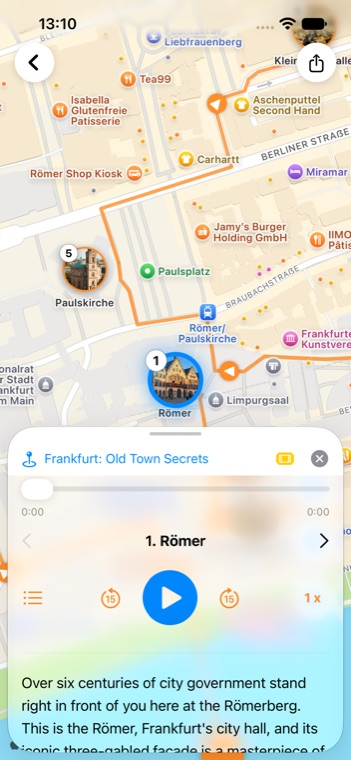
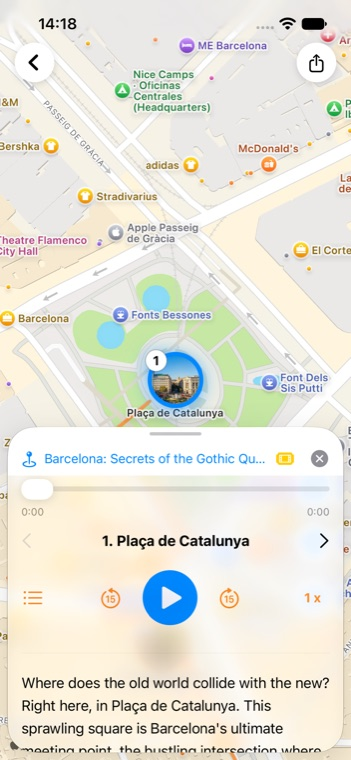
Make Barcelona the main example; hero phone cluster; 'In action' nav link

diff --git a/index.html b/index.html
@@ -33,7 +33,13 @@
   .badge{display:inline-flex;align-items:center;gap:8px;background:var(--ink);color:#fff;padding:12px 22px;border-radius:14px;font-weight:700}
   .badge small{display:block;font-size:11px;font-weight:600;opacity:.8;line-height:1}
   .note{color:var(--muted);font-size:13px;margin-top:12px}
-  .shot{display:block;width:72%;max-width:300px;margin:40px auto 0;border-radius:30px;border:1px solid #00000010;box-shadow:0 24px 60px #00000026}
+  .herophones{position:relative;width:300px;margin:52px auto 0}
+  .hp{border-radius:30px;border:1px solid #00000010;box-shadow:0 24px 60px #00000026;background:#fff}
+  .hp-c{position:relative;display:block;width:100%;z-index:3}
+  .hp-side{position:absolute;bottom:14px;width:76%;z-index:1}
+  .hp-l{left:-46%;transform:rotate(-8deg)}
+  .hp-r{right:-46%;transform:rotate(8deg)}
+  @media(max-width:720px){ .hp-side{display:none} .herophones{width:72%;max-width:300px} }
   section{padding:56px 0}
   h2{font-size:clamp(24px,3.5vw,34px);font-weight:800;text-align:center;margin-bottom:8px;letter-spacing:-.3px}
   .sub{text-align:center;color:var(--muted);max-width:46ch;margin:0 auto 36px}
@@ -80,6 +86,7 @@
   <nav>
     <span class="nav-links">
       <a href="#tours" data-i18n="nav_tours">Tours</a>
+      <a href="#screens" data-i18n="nav_screens">In action</a>
       <a href="#why" data-i18n="nav_why">Why</a>
       <a href="/privacy.html" data-i18n="nav_privacy">Privacy</a>
       <a href="mailto:support@addtomap.co" data-i18n="nav_support">Support</a>
@@ -97,7 +104,11 @@
   <p data-i18n="hero_p">Pick a city, follow the route on the map, and hear its stories as you walk — fully offline. Lots of tours are free; others from 0.99 €, no subscription.</p>
   <a class="badge" href="#tours"><span>🎧</span><span><small data-i18n="badge_small">Soon on the</small>App Store</span></a>
   <div class="note" data-i18n="note">iPhone · works offline · 6 languages</div>
-  <img class="shot" src="img/app-home.png" alt="AddToMap app screenshot" loading="lazy">
+  <div class="herophones">
+    <img class="hp hp-side hp-l" src="img/screen-tour.jpg" alt="AddToMap — Barcelona tour overview" loading="lazy">
+    <img class="hp hp-c" src="img/app-home.png" alt="AddToMap app — browse free walking tours" loading="lazy">
+    <img class="hp hp-side hp-r" src="img/screen-photo.jpg" alt="AddToMap — story and photo at every stop" loading="lazy">
+  </div>
 </div></div>
 
 <section id="tours"><div class="wrap">
@@ -125,7 +136,6 @@
   <figure><img src="img/screen-tour.jpg" alt="AddToMap — tour overview with route and stops" loading="lazy"><figcaption data-i18n="cap_tour">Preview & start</figcaption></figure>
   <figure><img src="img/screen-map.jpg" alt="AddToMap — follow the map and listen to each stop" loading="lazy"><figcaption data-i18n="cap_map">Follow the map</figcaption></figure>
   <figure><img src="img/screen-photo.jpg" alt="AddToMap — photo and story at every stop" loading="lazy"><figcaption data-i18n="cap_photo">Stories at every stop</figcaption></figure>
-  <figure><img src="img/screen-voice.jpg" alt="AddToMap — choose a male or female guide voice" loading="lazy"><figcaption data-i18n="cap_voice">Your choice of voice</figcaption></figure>
 </div>
 </section>
 
@@ -169,12 +179,12 @@
 
 <script>
 const I18N = {
-  en:{nav_tours:"Tours",nav_why:"Why",nav_privacy:"Privacy",nav_support:"Support",hero_h1:"Walk the city, hear its stories",hero_p:"Pick a city, follow the route on the map, and hear its stories as you walk — fully offline. Lots of tours are free; others from 0.99 €, no subscription.",badge_small:"Soon on the",note:"iPhone · works offline · 6 languages",free_title:"Lots of free tours to start",free_sub:"Full, self-guided city walks — free right now, with new ones added regularly. Tap a tour to hear a free preview.",stops:"stops",free_badge:"FREE",why_title:"Why AddToMap",f1_t:"Stories & secrets",f1_d:"Fascinating history and local secrets at every stop — curated, not generic.",f2_t:"Fully offline",f2_d:"Download once, walk anywhere — no roaming, no signal needed.",f3_t:"Price of a coffee",f3_d:"Tours from 0.99 €. No subscription, no account.",f4_t:"At your own pace",f4_d:"No tour group, no schedule. Start, pause and resume whenever.",how_title:"How it works",s1_t:"Pick a city",s1_d:"Browse tours and listen to a free preview.",s2_t:"Download it",s2_d:"The whole tour saves to your phone for offline use.",s3_t:"Walk & listen",s3_d:"Follow the map; stories play as you reach each stop.",cta_title:"Coming soon to the App Store",cta_sub:"Follow us for the launch and new cities.",preview_play:"Preview",preview_playing:"Playing…",voice_label:"Guide voice:",voice_male:"Male",voice_female:"Female",f5_t:"Your choice of voice",f5_d:"Prefer a male or female guide? Switch anytime — every tour is narrated in both voices.",screens_title:"See it in action",screens_sub:"A quick look inside the app — browse tours, follow the map, and listen as you walk.",cap_tour:"Preview & start",cap_map:"Follow the map",cap_photo:"Stories at every stop",cap_voice:"Your choice of voice"},
-  de:{nav_tours:"Touren",nav_why:"Warum",nav_privacy:"Datenschutz",nav_support:"Support",hero_h1:"Erkunde die Stadt, hör ihre Geschichten",hero_p:"Wähle eine Stadt, folge der Route auf der Karte und höre ihre Geschichten beim Gehen — komplett offline. Viele Touren sind gratis, weitere ab 0,99 €, kein Abo.",badge_small:"Bald im",note:"iPhone · offline · 6 Sprachen",free_title:"Viele kostenlose Touren zum Start",free_sub:"Komplette, selbstgeführte Stadtrundgänge — jetzt gratis, regelmäßig kommen neue dazu. Tippe auf eine Tour für eine kostenlose Vorschau.",stops:"Stopps",free_badge:"GRATIS",why_title:"Warum AddToMap",f1_t:"Geschichten & Geheimnisse",f1_d:"Spannende Geschichte und lokale Geheimnisse an jedem Stopp — kuratiert, nicht generisch.",f2_t:"Komplett offline",f2_d:"Einmal laden, überall gehen — kein Roaming, kein Signal nötig.",f3_t:"Preis eines Kaffees",f3_d:"Touren ab 0,99 €. Kein Abo, kein Konto.",f4_t:"In deinem Tempo",f4_d:"Keine Gruppe, kein Zeitplan. Starte, pausiere und mach weiter, wann du willst.",how_title:"So funktioniert's",s1_t:"Stadt wählen",s1_d:"Stöbere in Touren und hör dir eine kostenlose Vorschau an.",s2_t:"Herunterladen",s2_d:"Die ganze Tour wird für offline aufs Handy gespeichert.",s3_t:"Gehen & hören",s3_d:"Folge der Karte; Geschichten spielen an jedem Stopp.",cta_title:"Bald im App Store",cta_sub:"Folge uns für Launch und neue Städte.",preview_play:"Vorschau",preview_playing:"Läuft…",voice_label:"Guide-Stimme:",voice_male:"Männlich",voice_female:"Weiblich",f5_t:"Deine Wunschstimme",f5_d:"Männlicher oder weiblicher Guide? Jederzeit umschaltbar — jede Tour gibt es in beiden Stimmen.",screens_title:"So sieht's aus",screens_sub:"Ein kurzer Blick in die App — Touren entdecken, der Karte folgen und beim Gehen zuhören.",cap_tour:"Vorschau & Start",cap_map:"Der Karte folgen",cap_photo:"Geschichten an jedem Stopp",cap_voice:"Deine Wunschstimme"},
-  fr:{nav_tours:"Visites",nav_why:"Pourquoi",nav_privacy:"Confidentialité",nav_support:"Support",hero_h1:"Parcours la ville, écoute ses histoires",hero_p:"Choisis une ville, suis l'itinéraire sur la carte et écoute ses histoires en marchant — entièrement hors ligne. Beaucoup de visites sont gratuites, d'autres dès 0,99 €, sans abonnement.",badge_small:"Bientôt sur l'",note:"iPhone · hors ligne · 6 langues",free_title:"Plein de visites gratuites pour commencer",free_sub:"Des balades complètes en autonomie — gratuites dès maintenant, de nouvelles régulièrement. Touche une visite pour un aperçu gratuit.",stops:"arrêts",free_badge:"GRATUIT",why_title:"Pourquoi AddToMap",f1_t:"Histoires & secrets",f1_d:"Histoire fascinante et secrets locaux à chaque arrêt — sélectionnés, pas génériques.",f2_t:"100 % hors ligne",f2_d:"Télécharge une fois, marche partout — ni roaming ni réseau.",f3_t:"Prix d'un café",f3_d:"Visites dès 0,99 €. Sans abonnement, sans compte.",f4_t:"À ton rythme",f4_d:"Pas de groupe, pas d'horaire. Démarre, mets en pause, reprends quand tu veux.",how_title:"Comment ça marche",s1_t:"Choisis une ville",s1_d:"Parcours les visites et écoute un aperçu gratuit.",s2_t:"Télécharge-la",s2_d:"Toute la visite est enregistrée sur ton téléphone, hors ligne.",s3_t:"Marche & écoute",s3_d:"Suis la carte ; les récits se lancent à chaque arrêt.",cta_title:"Bientôt sur l'App Store",cta_sub:"Suis-nous pour le lancement et les nouvelles villes.",preview_play:"Aperçu",preview_playing:"Lecture…",voice_label:"Voix du guide :",voice_male:"Homme",voice_female:"Femme",f5_t:"La voix de ton choix",f5_d:"Guide masculin ou féminin ? Change quand tu veux — chaque visite existe dans les deux voix.",screens_title:"Un aperçu de l'app",screens_sub:"Un coup d'œil dans l'app — parcours les visites, suis la carte et écoute en marchant.",cap_tour:"Aperçu & départ",cap_map:"Suis la carte",cap_photo:"Des récits à chaque arrêt",cap_voice:"La voix de ton choix"},
-  es:{nav_tours:"Tours",nav_why:"Por qué",nav_privacy:"Privacidad",nav_support:"Soporte",hero_h1:"Recorre la ciudad, escucha sus historias",hero_p:"Elige una ciudad, sigue la ruta en el mapa y escucha sus historias mientras caminas — totalmente sin conexión. Muchos tours son gratis; otros desde 0,99 €, sin suscripción.",badge_small:"Pronto en la",note:"iPhone · sin conexión · 6 idiomas",free_title:"Muchos tours gratis para empezar",free_sub:"Recorridos completos autoguiados — gratis ahora mismo, con novedades periódicas. Toca un tour para oír una vista previa gratis.",stops:"paradas",free_badge:"GRATIS",why_title:"Por qué AddToMap",f1_t:"Historias y secretos",f1_d:"Historia fascinante y secretos locales en cada parada — seleccionados, no genéricos.",f2_t:"Totalmente sin conexión",f2_d:"Descarga una vez, camina donde sea — sin roaming ni señal.",f3_t:"El precio de un café",f3_d:"Tours desde 0,99 €. Sin suscripción, sin cuenta.",f4_t:"A tu ritmo",f4_d:"Sin grupo, sin horarios. Empieza, pausa y sigue cuando quieras.",how_title:"Cómo funciona",s1_t:"Elige una ciudad",s1_d:"Explora los tours y escucha una vista previa gratis.",s2_t:"Descárgalo",s2_d:"El tour completo se guarda en tu teléfono para usarlo sin conexión.",s3_t:"Camina y escucha",s3_d:"Sigue el mapa; las historias suenan al llegar a cada parada.",cta_title:"Pronto en la App Store",cta_sub:"Síguenos para el lanzamiento y nuevas ciudades.",preview_play:"Vista previa",preview_playing:"Reproduciendo…",voice_label:"Voz del guía:",voice_male:"Masculina",voice_female:"Femenina",f5_t:"La voz que prefieras",f5_d:"¿Guía masculino o femenino? Cámbialo cuando quieras: cada tour está narrado en ambas voces.",screens_title:"Míralo en acción",screens_sub:"Un vistazo a la app — explora tours, sigue el mapa y escucha mientras caminas.",cap_tour:"Vista previa e inicio",cap_map:"Sigue el mapa",cap_photo:"Historias en cada parada",cap_voice:"La voz que prefieras"},
-  it:{nav_tours:"Tour",nav_why:"Perché",nav_privacy:"Privacy",nav_support:"Supporto",hero_h1:"Esplora la città, ascolta le sue storie",hero_p:"Scegli una città, segui il percorso sulla mappa e ascolta le sue storie mentre cammini — completamente offline. Molti tour sono gratuiti, altri da 0,99 €, senza abbonamento.",badge_small:"Presto su",note:"iPhone · offline · 6 lingue",free_title:"Tanti tour gratuiti per iniziare",free_sub:"Percorsi cittadini completi e autoguidati — gratis ora, con novità regolari. Tocca un tour per ascoltare un'anteprima gratuita.",stops:"tappe",free_badge:"GRATIS",why_title:"Perché AddToMap",f1_t:"Storie e segreti",f1_d:"Storia affascinante e segreti locali a ogni tappa — selezionati, non generici.",f2_t:"Totalmente offline",f2_d:"Scarica una volta, cammina ovunque — niente roaming né segnale.",f3_t:"Il prezzo di un caffè",f3_d:"Tour da 0,99 €. Senza abbonamento, senza account.",f4_t:"Al tuo ritmo",f4_d:"Niente gruppo, niente orari. Avvia, metti in pausa e riprendi quando vuoi.",how_title:"Come funziona",s1_t:"Scegli una città",s1_d:"Sfoglia i tour e ascolta un'anteprima gratuita.",s2_t:"Scaricalo",s2_d:"L'intero tour si salva sul telefono per l'uso offline.",s3_t:"Cammina e ascolta",s3_d:"Segui la mappa; le storie partono a ogni tappa.",cta_title:"Presto sull'App Store",cta_sub:"Seguici per il lancio e le nuove città.",preview_play:"Anteprima",preview_playing:"In riproduzione…",voice_label:"Voce della guida:",voice_male:"Maschile",voice_female:"Femminile",f5_t:"La voce che preferisci",f5_d:"Guida maschile o femminile? Cambiala quando vuoi: ogni tour è narrato in entrambe le voci.",screens_title:"Guardala in azione",screens_sub:"Uno sguardo all'app — esplora i tour, segui la mappa e ascolta mentre cammini.",cap_tour:"Anteprima e avvio",cap_map:"Segui la mappa",cap_photo:"Storie a ogni tappa",cap_voice:"La voce che preferisci"},
-  ru:{nav_tours:"Туры",nav_why:"Почему",nav_privacy:"Приватность",nav_support:"Поддержка",hero_h1:"Гуляй по городу — слушай его истории",hero_p:"Выбери город, иди по маршруту на карте и слушай истории на ходу — полностью офлайн. Много туров бесплатно, остальные от 0,99 €, без подписки.",badge_small:"Скоро в",note:"iPhone · офлайн · 6 языков",free_title:"Много бесплатных туров для старта",free_sub:"Полные самостоятельные маршруты — бесплатно прямо сейчас, новые добавляются регулярно. Нажми на тур, чтобы послушать бесплатное превью.",stops:"точек",free_badge:"БЕСПЛАТНО",why_title:"Почему AddToMap",f1_t:"Истории и секреты",f1_d:"Увлекательная история и местные секреты на каждой точке — отобранные, не шаблонные.",f2_t:"Полностью офлайн",f2_d:"Скачай один раз — иди где угодно, без роуминга и сети.",f3_t:"Цена чашки кофе",f3_d:"Туры от 0,99 €. Без подписки и аккаунта.",f4_t:"В своём темпе",f4_d:"Без группы и расписания. Старт, пауза и продолжение — когда хочешь.",how_title:"Как это работает",s1_t:"Выбери город",s1_d:"Смотри туры и слушай бесплатное превью.",s2_t:"Скачай",s2_d:"Весь тур сохраняется на телефон для офлайна.",s3_t:"Иди и слушай",s3_d:"Следуй карте; истории включаются на каждой точке.",cta_title:"Скоро в App Store",cta_sub:"Подпишись — расскажем о запуске и новых городах.",preview_play:"Превью",preview_playing:"Играет…",voice_label:"Голос гида:",voice_male:"Мужской",voice_female:"Женский",f5_t:"Голос на выбор",f5_d:"Мужской или женский гид? Переключай в любой момент — каждый тур озвучен обоими голосами.",screens_title:"Как это выглядит",screens_sub:"Загляни внутрь приложения — выбирай туры, следуй карте и слушай на ходу.",cap_tour:"Превью и старт",cap_map:"Следуй карте",cap_photo:"Истории на каждой точке",cap_voice:"Голос на выбор"}
+  en:{nav_tours:"Tours",nav_screens:"In action",nav_why:"Why",nav_privacy:"Privacy",nav_support:"Support",hero_h1:"Walk the city, hear its stories",hero_p:"Pick a city, follow the route on the map, and hear its stories as you walk — fully offline. Lots of tours are free; others from 0.99 €, no subscription.",badge_small:"Soon on the",note:"iPhone · works offline · 6 languages",free_title:"Lots of free tours to start",free_sub:"Full, self-guided city walks — free right now, with new ones added regularly. Tap a tour to hear a free preview.",stops:"stops",free_badge:"FREE",why_title:"Why AddToMap",f1_t:"Stories & secrets",f1_d:"Fascinating history and local secrets at every stop — curated, not generic.",f2_t:"Fully offline",f2_d:"Download once, walk anywhere — no roaming, no signal needed.",f3_t:"Price of a coffee",f3_d:"Tours from 0.99 €. No subscription, no account.",f4_t:"At your own pace",f4_d:"No tour group, no schedule. Start, pause and resume whenever.",how_title:"How it works",s1_t:"Pick a city",s1_d:"Browse tours and listen to a free preview.",s2_t:"Download it",s2_d:"The whole tour saves to your phone for offline use.",s3_t:"Walk & listen",s3_d:"Follow the map; stories play as you reach each stop.",cta_title:"Coming soon to the App Store",cta_sub:"Follow us for the launch and new cities.",preview_play:"Preview",preview_playing:"Playing…",voice_label:"Guide voice:",voice_male:"Male",voice_female:"Female",f5_t:"Your choice of voice",f5_d:"Prefer a male or female guide? Switch anytime — every tour is narrated in both voices.",screens_title:"See it in action",screens_sub:"A quick look inside the app — browse tours, follow the map, and listen as you walk.",cap_tour:"Preview & start",cap_map:"Follow the map",cap_photo:"Stories at every stop",cap_voice:"Your choice of voice"},
+  de:{nav_tours:"Touren",nav_screens:"In Aktion",nav_why:"Warum",nav_privacy:"Datenschutz",nav_support:"Support",hero_h1:"Erkunde die Stadt, hör ihre Geschichten",hero_p:"Wähle eine Stadt, folge der Route auf der Karte und höre ihre Geschichten beim Gehen — komplett offline. Viele Touren sind gratis, weitere ab 0,99 €, kein Abo.",badge_small:"Bald im",note:"iPhone · offline · 6 Sprachen",free_title:"Viele kostenlose Touren zum Start",free_sub:"Komplette, selbstgeführte Stadtrundgänge — jetzt gratis, regelmäßig kommen neue dazu. Tippe auf eine Tour für eine kostenlose Vorschau.",stops:"Stopps",free_badge:"GRATIS",why_title:"Warum AddToMap",f1_t:"Geschichten & Geheimnisse",f1_d:"Spannende Geschichte und lokale Geheimnisse an jedem Stopp — kuratiert, nicht generisch.",f2_t:"Komplett offline",f2_d:"Einmal laden, überall gehen — kein Roaming, kein Signal nötig.",f3_t:"Preis eines Kaffees",f3_d:"Touren ab 0,99 €. Kein Abo, kein Konto.",f4_t:"In deinem Tempo",f4_d:"Keine Gruppe, kein Zeitplan. Starte, pausiere und mach weiter, wann du willst.",how_title:"So funktioniert's",s1_t:"Stadt wählen",s1_d:"Stöbere in Touren und hör dir eine kostenlose Vorschau an.",s2_t:"Herunterladen",s2_d:"Die ganze Tour wird für offline aufs Handy gespeichert.",s3_t:"Gehen & hören",s3_d:"Folge der Karte; Geschichten spielen an jedem Stopp.",cta_title:"Bald im App Store",cta_sub:"Folge uns für Launch und neue Städte.",preview_play:"Vorschau",preview_playing:"Läuft…",voice_label:"Guide-Stimme:",voice_male:"Männlich",voice_female:"Weiblich",f5_t:"Deine Wunschstimme",f5_d:"Männlicher oder weiblicher Guide? Jederzeit umschaltbar — jede Tour gibt es in beiden Stimmen.",screens_title:"So sieht's aus",screens_sub:"Ein kurzer Blick in die App — Touren entdecken, der Karte folgen und beim Gehen zuhören.",cap_tour:"Vorschau & Start",cap_map:"Der Karte folgen",cap_photo:"Geschichten an jedem Stopp",cap_voice:"Deine Wunschstimme"},
+  fr:{nav_tours:"Visites",nav_screens:"En action",nav_why:"Pourquoi",nav_privacy:"Confidentialité",nav_support:"Support",hero_h1:"Parcours la ville, écoute ses histoires",hero_p:"Choisis une ville, suis l'itinéraire sur la carte et écoute ses histoires en marchant — entièrement hors ligne. Beaucoup de visites sont gratuites, d'autres dès 0,99 €, sans abonnement.",badge_small:"Bientôt sur l'",note:"iPhone · hors ligne · 6 langues",free_title:"Plein de visites gratuites pour commencer",free_sub:"Des balades complètes en autonomie — gratuites dès maintenant, de nouvelles régulièrement. Touche une visite pour un aperçu gratuit.",stops:"arrêts",free_badge:"GRATUIT",why_title:"Pourquoi AddToMap",f1_t:"Histoires & secrets",f1_d:"Histoire fascinante et secrets locaux à chaque arrêt — sélectionnés, pas génériques.",f2_t:"100 % hors ligne",f2_d:"Télécharge une fois, marche partout — ni roaming ni réseau.",f3_t:"Prix d'un café",f3_d:"Visites dès 0,99 €. Sans abonnement, sans compte.",f4_t:"À ton rythme",f4_d:"Pas de groupe, pas d'horaire. Démarre, mets en pause, reprends quand tu veux.",how_title:"Comment ça marche",s1_t:"Choisis une ville",s1_d:"Parcours les visites et écoute un aperçu gratuit.",s2_t:"Télécharge-la",s2_d:"Toute la visite est enregistrée sur ton téléphone, hors ligne.",s3_t:"Marche & écoute",s3_d:"Suis la carte ; les récits se lancent à chaque arrêt.",cta_title:"Bientôt sur l'App Store",cta_sub:"Suis-nous pour le lancement et les nouvelles villes.",preview_play:"Aperçu",preview_playing:"Lecture…",voice_label:"Voix du guide :",voice_male:"Homme",voice_female:"Femme",f5_t:"La voix de ton choix",f5_d:"Guide masculin ou féminin ? Change quand tu veux — chaque visite existe dans les deux voix.",screens_title:"Un aperçu de l'app",screens_sub:"Un coup d'œil dans l'app — parcours les visites, suis la carte et écoute en marchant.",cap_tour:"Aperçu & départ",cap_map:"Suis la carte",cap_photo:"Des récits à chaque arrêt",cap_voice:"La voix de ton choix"},
+  es:{nav_tours:"Tours",nav_screens:"En acción",nav_why:"Por qué",nav_privacy:"Privacidad",nav_support:"Soporte",hero_h1:"Recorre la ciudad, escucha sus historias",hero_p:"Elige una ciudad, sigue la ruta en el mapa y escucha sus historias mientras caminas — totalmente sin conexión. Muchos tours son gratis; otros desde 0,99 €, sin suscripción.",badge_small:"Pronto en la",note:"iPhone · sin conexión · 6 idiomas",free_title:"Muchos tours gratis para empezar",free_sub:"Recorridos completos autoguiados — gratis ahora mismo, con novedades periódicas. Toca un tour para oír una vista previa gratis.",stops:"paradas",free_badge:"GRATIS",why_title:"Por qué AddToMap",f1_t:"Historias y secretos",f1_d:"Historia fascinante y secretos locales en cada parada — seleccionados, no genéricos.",f2_t:"Totalmente sin conexión",f2_d:"Descarga una vez, camina donde sea — sin roaming ni señal.",f3_t:"El precio de un café",f3_d:"Tours desde 0,99 €. Sin suscripción, sin cuenta.",f4_t:"A tu ritmo",f4_d:"Sin grupo, sin horarios. Empieza, pausa y sigue cuando quieras.",how_title:"Cómo funciona",s1_t:"Elige una ciudad",s1_d:"Explora los tours y escucha una vista previa gratis.",s2_t:"Descárgalo",s2_d:"El tour completo se guarda en tu teléfono para usarlo sin conexión.",s3_t:"Camina y escucha",s3_d:"Sigue el mapa; las historias suenan al llegar a cada parada.",cta_title:"Pronto en la App Store",cta_sub:"Síguenos para el lanzamiento y nuevas ciudades.",preview_play:"Vista previa",preview_playing:"Reproduciendo…",voice_label:"Voz del guía:",voice_male:"Masculina",voice_female:"Femenina",f5_t:"La voz que prefieras",f5_d:"¿Guía masculino o femenino? Cámbialo cuando quieras: cada tour está narrado en ambas voces.",screens_title:"Míralo en acción",screens_sub:"Un vistazo a la app — explora tours, sigue el mapa y escucha mientras caminas.",cap_tour:"Vista previa e inicio",cap_map:"Sigue el mapa",cap_photo:"Historias en cada parada",cap_voice:"La voz que prefieras"},
+  it:{nav_tours:"Tour",nav_screens:"In azione",nav_why:"Perché",nav_privacy:"Privacy",nav_support:"Supporto",hero_h1:"Esplora la città, ascolta le sue storie",hero_p:"Scegli una città, segui il percorso sulla mappa e ascolta le sue storie mentre cammini — completamente offline. Molti tour sono gratuiti, altri da 0,99 €, senza abbonamento.",badge_small:"Presto su",note:"iPhone · offline · 6 lingue",free_title:"Tanti tour gratuiti per iniziare",free_sub:"Percorsi cittadini completi e autoguidati — gratis ora, con novità regolari. Tocca un tour per ascoltare un'anteprima gratuita.",stops:"tappe",free_badge:"GRATIS",why_title:"Perché AddToMap",f1_t:"Storie e segreti",f1_d:"Storia affascinante e segreti locali a ogni tappa — selezionati, non generici.",f2_t:"Totalmente offline",f2_d:"Scarica una volta, cammina ovunque — niente roaming né segnale.",f3_t:"Il prezzo di un caffè",f3_d:"Tour da 0,99 €. Senza abbonamento, senza account.",f4_t:"Al tuo ritmo",f4_d:"Niente gruppo, niente orari. Avvia, metti in pausa e riprendi quando vuoi.",how_title:"Come funziona",s1_t:"Scegli una città",s1_d:"Sfoglia i tour e ascolta un'anteprima gratuita.",s2_t:"Scaricalo",s2_d:"L'intero tour si salva sul telefono per l'uso offline.",s3_t:"Cammina e ascolta",s3_d:"Segui la mappa; le storie partono a ogni tappa.",cta_title:"Presto sull'App Store",cta_sub:"Seguici per il lancio e le nuove città.",preview_play:"Anteprima",preview_playing:"In riproduzione…",voice_label:"Voce della guida:",voice_male:"Maschile",voice_female:"Femminile",f5_t:"La voce che preferisci",f5_d:"Guida maschile o femminile? Cambiala quando vuoi: ogni tour è narrato in entrambe le voci.",screens_title:"Guardala in azione",screens_sub:"Uno sguardo all'app — esplora i tour, segui la mappa e ascolta mentre cammini.",cap_tour:"Anteprima e avvio",cap_map:"Segui la mappa",cap_photo:"Storie a ogni tappa",cap_voice:"La voce che preferisci"},
+  ru:{nav_tours:"Туры",nav_screens:"В действии",nav_why:"Почему",nav_privacy:"Приватность",nav_support:"Поддержка",hero_h1:"Гуляй по городу — слушай его истории",hero_p:"Выбери город, иди по маршруту на карте и слушай истории на ходу — полностью офлайн. Много туров бесплатно, остальные от 0,99 €, без подписки.",badge_small:"Скоро в",note:"iPhone · офлайн · 6 языков",free_title:"Много бесплатных туров для старта",free_sub:"Полные самостоятельные маршруты — бесплатно прямо сейчас, новые добавляются регулярно. Нажми на тур, чтобы послушать бесплатное превью.",stops:"точек",free_badge:"БЕСПЛАТНО",why_title:"Почему AddToMap",f1_t:"Истории и секреты",f1_d:"Увлекательная история и местные секреты на каждой точке — отобранные, не шаблонные.",f2_t:"Полностью офлайн",f2_d:"Скачай один раз — иди где угодно, без роуминга и сети.",f3_t:"Цена чашки кофе",f3_d:"Туры от 0,99 €. Без подписки и аккаунта.",f4_t:"В своём темпе",f4_d:"Без группы и расписания. Старт, пауза и продолжение — когда хочешь.",how_title:"Как это работает",s1_t:"Выбери город",s1_d:"Смотри туры и слушай бесплатное превью.",s2_t:"Скачай",s2_d:"Весь тур сохраняется на телефон для офлайна.",s3_t:"Иди и слушай",s3_d:"Следуй карте; истории включаются на каждой точке.",cta_title:"Скоро в App Store",cta_sub:"Подпишись — расскажем о запуске и новых городах.",preview_play:"Превью",preview_playing:"Играет…",voice_label:"Голос гида:",voice_male:"Мужской",voice_female:"Женский",f5_t:"Голос на выбор",f5_d:"Мужской или женский гид? Переключай в любой момент — каждый тур озвучен обоими голосами.",screens_title:"Как это выглядит",screens_sub:"Загляни внутрь приложения — выбирай туры, следуй карте и слушай на ходу.",cap_tour:"Превью и старт",cap_map:"Следуй карте",cap_photo:"Истории на каждой точке",cap_voice:"Голос на выбор"}
 };
 // ---- Tour preview playback (language- + voice-aware) ----
 var previewVoice = (localStorage.getItem("pv")==="f") ? "f" : "m";
